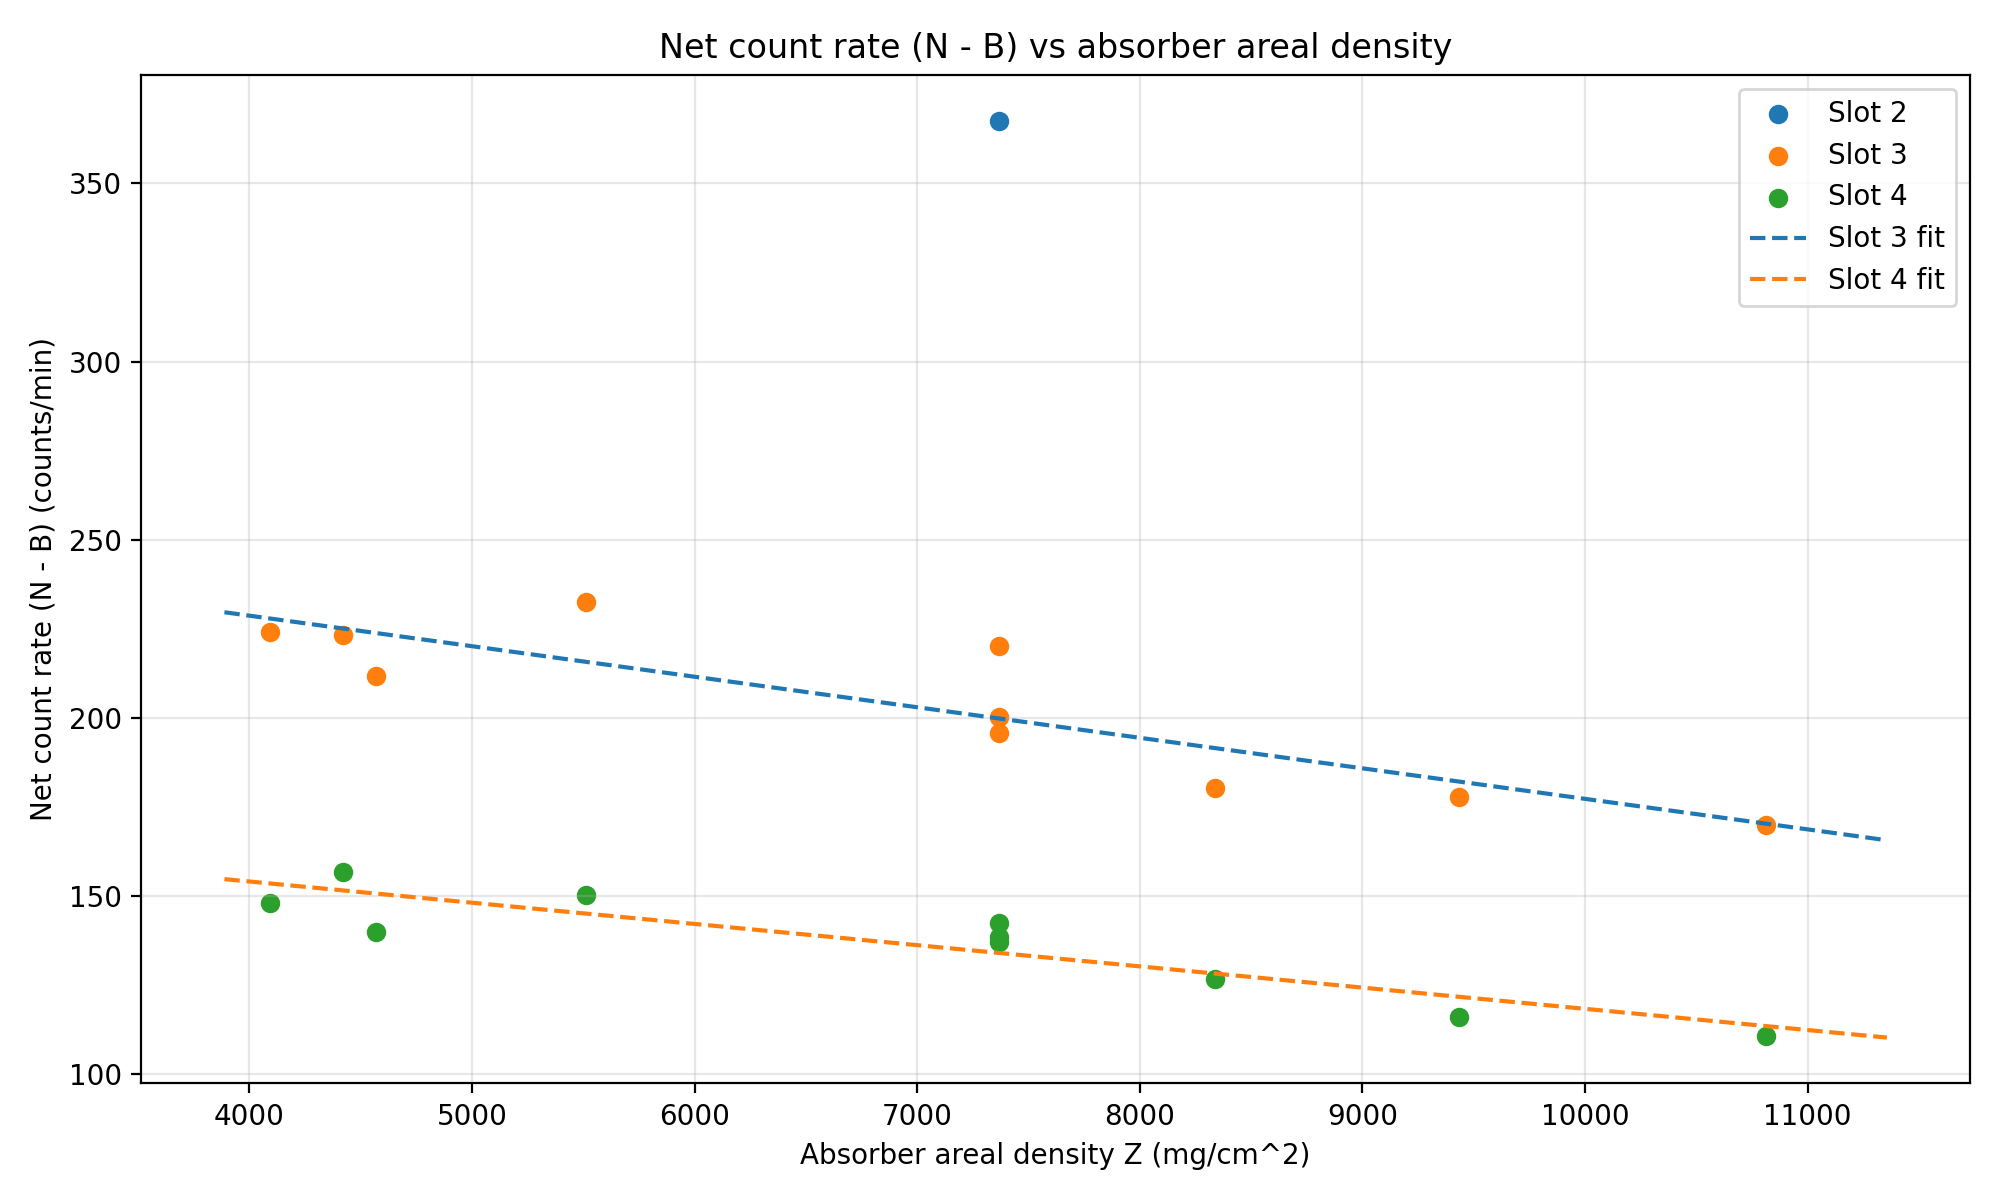
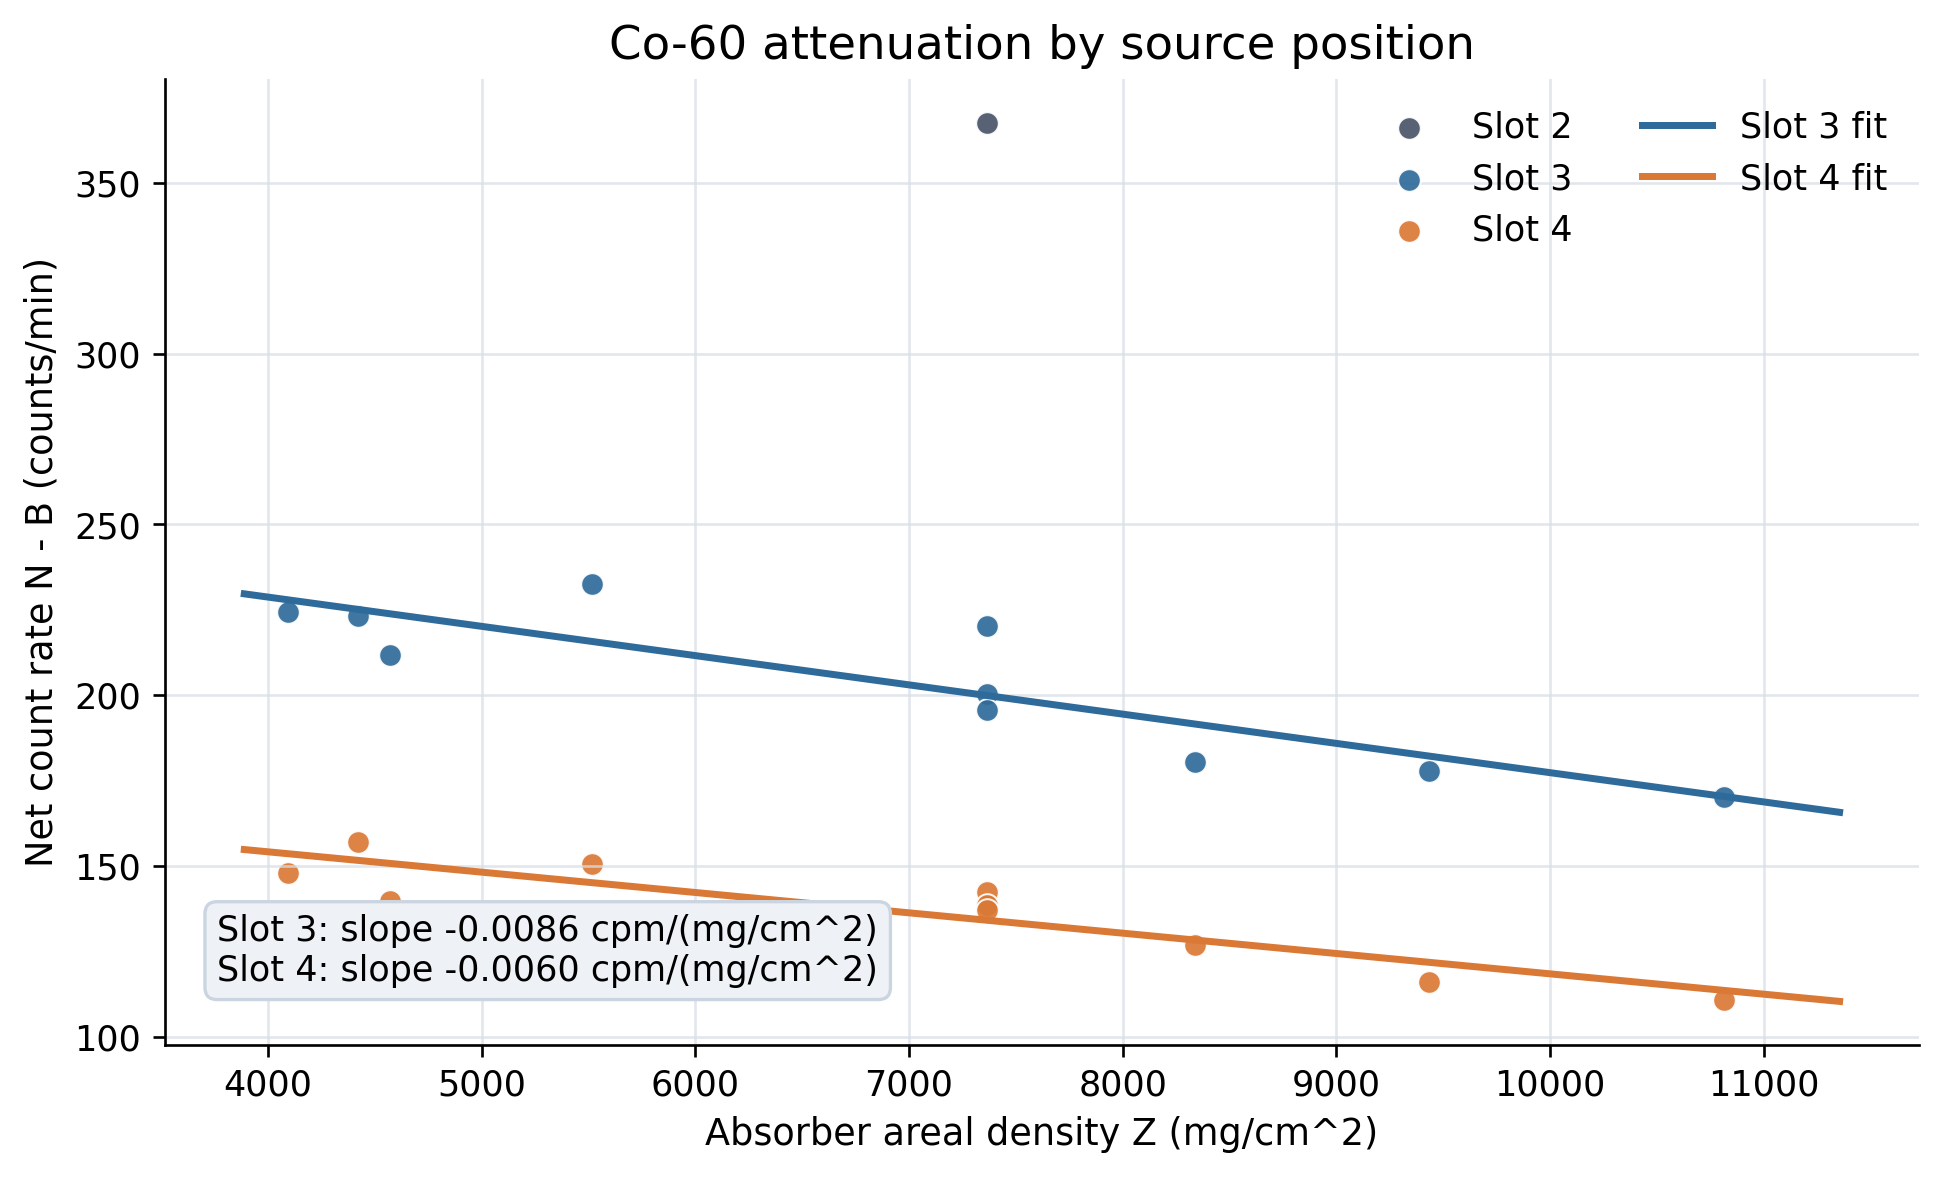
Polish README analysis figures

diff --git a/src/analyze_co60.py b/src/analyze_co60.py
@@ -31,6 +31,12 @@ REPO_ROOT = Path(__file__).resolve().parents[1]
 DATA_DIR = REPO_ROOT / "data"
 FIG_DIR = REPO_ROOT / "figures"
 FIG_DIR.mkdir(exist_ok=True)
+BLUE = "#2F6B9A"
+ORANGE = "#D97935"
+GREEN = "#5B8C5A"
+RED = "#B4554B"
+GRAY = "#4A5568"
+LIGHT = "#EEF2F6"
 
 
 @dataclass(frozen=True)
@@ -53,7 +59,34 @@ def linear_fit(x: np.ndarray, y: np.ndarray) -> FitResult:
     )
 
 
+def set_plot_style() -> None:
+    plt.rcParams.update(
+        {
+            "figure.dpi": 140,
+            "savefig.dpi": 240,
+            "font.family": "DejaVu Sans",
+            "font.size": 10.5,
+            "axes.titlesize": 14,
+            "axes.labelsize": 11,
+            "axes.spines.top": False,
+            "axes.spines.right": False,
+            "axes.grid": True,
+            "grid.color": "#D9DEE7",
+            "grid.linewidth": 0.8,
+            "grid.alpha": 0.75,
+            "legend.frameon": False,
+        }
+    )
+
+
+def save_figure(fig: plt.Figure, path: Path) -> None:
+    fig.tight_layout()
+    fig.savefig(path, bbox_inches="tight", facecolor="white")
+    plt.close(fig)
+
+
 def main() -> None:
+    set_plot_style()
     processed = pd.read_csv(DATA_DIR / "processed_points.csv")
 
     slot3 = processed.loc[processed["source_position"] == "Slot 3"].copy()
@@ -71,41 +104,68 @@ def main() -> None:
     z4 = inv_Z(fit4, nb_values)
     delta_z = z3 - z4
 
-    fig1 = plt.figure(figsize=(10, 6))
+    fig1 = plt.figure(figsize=(8.2, 5.0))
     ax1 = fig1.add_subplot(111)
 
-    for label, df in [("Slot 2", processed[processed["source_position"] == "Slot 2"]), ("Slot 3", slot3), ("Slot 4", slot4)]:
-        ax1.scatter(df["Z_mg_per_cm2"], df["net_count_rate_cpm"], label=label)
+    palette = {"Slot 2": GRAY, "Slot 3": BLUE, "Slot 4": ORANGE}
+    for label, df in [
+        ("Slot 2", processed[processed["source_position"] == "Slot 2"]),
+        ("Slot 3", slot3),
+        ("Slot 4", slot4),
+    ]:
+        ax1.scatter(
+            df["Z_mg_per_cm2"],
+            df["net_count_rate_cpm"],
+            label=label,
+            s=46,
+            color=palette[label],
+            edgecolor="white",
+            linewidth=0.6,
+            alpha=0.92,
+        )
 
     x_line = np.linspace(processed["Z_mg_per_cm2"].min() * 0.95, processed["Z_mg_per_cm2"].max() * 1.05, 200)
-    ax1.plot(x_line, fit3.slope * x_line + fit3.intercept, linestyle="--", label="Slot 3 fit")
-    ax1.plot(x_line, fit4.slope * x_line + fit4.intercept, linestyle="--", label="Slot 4 fit")
+    ax1.plot(x_line, fit3.slope * x_line + fit3.intercept, color=BLUE, lw=2.1, label="Slot 3 fit")
+    ax1.plot(x_line, fit4.slope * x_line + fit4.intercept, color=ORANGE, lw=2.1, label="Slot 4 fit")
 
-    ax1.set_title("Net count rate (N - B) vs absorber areal density")
+    ax1.set_title("Co-60 attenuation by source position")
     ax1.set_xlabel("Absorber areal density Z (mg/cm^2)")
-    ax1.set_ylabel("Net count rate (N - B) (counts/min)")
-    ax1.grid(True, alpha=0.3)
-    ax1.legend()
+    ax1.set_ylabel("Net count rate N - B (counts/min)")
+    ax1.text(
+        0.03,
+        0.06,
+        f"Slot 3: slope {fit3.slope:.4f} cpm/(mg/cm^2)\n"
+        f"Slot 4: slope {fit4.slope:.4f} cpm/(mg/cm^2)",
+        transform=ax1.transAxes,
+        ha="left",
+        va="bottom",
+        bbox={"boxstyle": "round,pad=0.35", "facecolor": LIGHT, "edgecolor": "#CBD5E1"},
+    )
+    ax1.legend(ncol=2, loc="upper right")
 
-    fig1.tight_layout()
-    fig1.savefig(FIG_DIR / "nb_vs_z_by_slot.png", dpi=200)
-    plt.close(fig1)
+    save_figure(fig1, FIG_DIR / "nb_vs_z_by_slot.png")
 
     fit_delta = linear_fit(nb_values, delta_z)
 
-    fig2 = plt.figure(figsize=(8, 5))
+    fig2 = plt.figure(figsize=(7.5, 4.6))
     ax2 = fig2.add_subplot(111)
-    ax2.scatter(nb_values, delta_z, label="Computed Delta Z")
+    ax2.scatter(nb_values, delta_z, label="Computed from inverted fits", s=54, color=BLUE, edgecolor="white", linewidth=0.7)
     nb_line = np.linspace(nb_values.min() - 2, nb_values.max() + 2, 200)
-    ax2.plot(nb_line, fit_delta.slope * nb_line + fit_delta.intercept, linestyle="--", label="Linear fit")
-    ax2.set_title("Extra absorber thickness needed when moving source (Slot 4 -> Slot 3)")
-    ax2.set_xlabel("Target net count rate (N - B) (counts/min)")
-    ax2.set_ylabel("Delta Z (Slot 3 - Slot 4) (mg/cm^2)")
-    ax2.grid(True, alpha=0.3)
-    ax2.legend()
-    fig2.tight_layout()
-    fig2.savefig(FIG_DIR / "deltaZ_vs_nb.png", dpi=200)
-    plt.close(fig2)
+    ax2.plot(nb_line, fit_delta.slope * nb_line + fit_delta.intercept, color=ORANGE, lw=2.2, label="Linear summary")
+    ax2.set_title("Equivalent absorber change at fixed count rate")
+    ax2.set_xlabel("Target net count rate N - B (counts/min)")
+    ax2.set_ylabel("Delta Z, Slot 3 - Slot 4 (mg/cm^2)")
+    ax2.text(
+        0.03,
+        0.94,
+        f"Delta Z = {fit_delta.slope:.1f}(N-B) + {fit_delta.intercept:.0f}",
+        transform=ax2.transAxes,
+        ha="left",
+        va="top",
+        bbox={"boxstyle": "round,pad=0.35", "facecolor": LIGHT, "edgecolor": "#CBD5E1"},
+    )
+    ax2.legend(loc="lower right")
+    save_figure(fig2, FIG_DIR / "deltaZ_vs_nb.png")
 
     raw = pd.read_csv(DATA_DIR / "raw_absorber_position_test.csv")
     groups = [
@@ -115,19 +175,30 @@ def main() -> None:
     ]
     f_stat, p_anova = stats.f_oneway(*groups)
 
-    fig3 = plt.figure(figsize=(8, 5))
+    fig3 = plt.figure(figsize=(7.0, 4.3))
     ax3 = fig3.add_subplot(111)
     order = ["Slot 1", "Slot 2", "Slot 3"]
     means = [raw.loc[raw["absorber_position"] == o, "net_count_rate_cpm"].mean() for o in order]
     sems = [raw.loc[raw["absorber_position"] == o, "net_count_rate_cpm"].sem() for o in order]
-    ax3.errorbar(order, means, yerr=sems, fmt="o", capsize=4)
-    ax3.set_title(f"Absorber position test (one-way ANOVA p = {p_anova:.3g})")
+    for idx, name in enumerate(order):
+        vals = raw.loc[raw["absorber_position"] == name, "net_count_rate_cpm"].to_numpy()
+        jitter = np.linspace(-0.055, 0.055, len(vals))
+        ax3.scatter(np.full_like(vals, idx, dtype=float) + jitter, vals, s=26, color="#94A3B8", alpha=0.75, zorder=2)
+    ax3.errorbar(range(len(order)), means, yerr=sems, fmt="o", color=BLUE, ecolor=BLUE, capsize=5, ms=7, zorder=3)
+    ax3.set_xticks(range(len(order)), order)
+    ax3.set_title("Negative control: absorber position")
     ax3.set_xlabel("Absorber position")
-    ax3.set_ylabel("Net count rate (N - B) (counts/min)")
-    ax3.grid(True, alpha=0.3)
-    fig3.tight_layout()
-    fig3.savefig(FIG_DIR / "absorber_position_net_rates.png", dpi=200)
-    plt.close(fig3)
+    ax3.set_ylabel("Net count rate N - B (counts/min)")
+    ax3.text(
+        0.03,
+        0.95,
+        f"One-way ANOVA p = {p_anova:.2f}\nNo detectable position effect",
+        transform=ax3.transAxes,
+        ha="left",
+        va="top",
+        bbox={"boxstyle": "round,pad=0.35", "facecolor": LIGHT, "edgecolor": "#CBD5E1"},
+    )
+    save_figure(fig3, FIG_DIR / "absorber_position_net_rates.png")
 
     summary_lines: list[str] = []
     summary_lines.append("Slot 3 fit: y = m x + b\n")

diff --git a/README.md b/README.md
@@ -36,15 +36,15 @@ For a target background-subtracted net count rate, how does the required absorbe
 
 **Net count rate versus absorber thickness**
 
-![N-B vs Z](figures/nb_vs_z_by_slot.png)
+<img src="figures/nb_vs_z_by_slot.png" alt="Net count rate versus absorber thickness" width="760">
 
 **Equivalent thickness change when moving the source**
 
-![Delta Z vs N-B](figures/deltaZ_vs_nb.png)
+<img src="figures/deltaZ_vs_nb.png" alt="Equivalent absorber thickness change" width="760">
 
 **Control test: absorber position**
 
-![Absorber position test](figures/absorber_position_net_rates.png)
+<img src="figures/absorber_position_net_rates.png" alt="Absorber position control test" width="760">
 
 ## Main quantitative results
 
